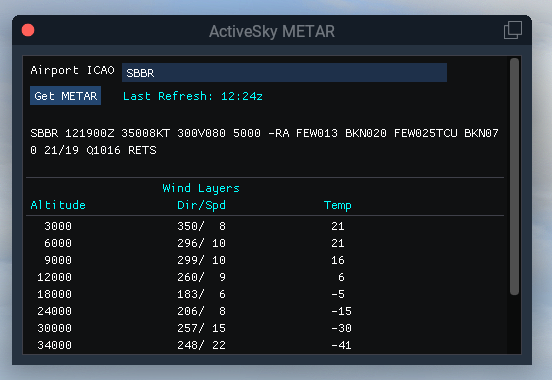
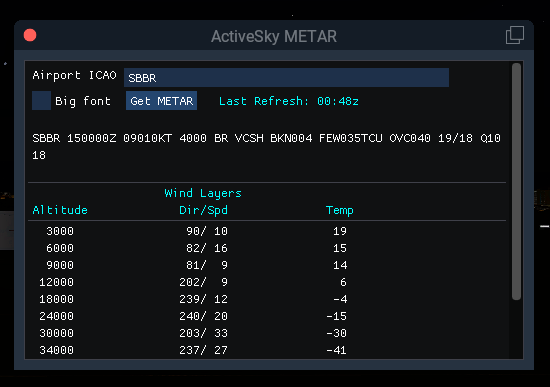
Big Font Option

Changed region(s): [[0.0, 0.0, 1.0, 1.0], [0.5873, 0.8105, 0.6491, 0.8684], [0.5873, 0.7237, 0.6491, 0.7816]]

diff --git a/README.md b/README.md
@@ -1,7 +1,7 @@
 # ActiveSkyXP-Helper
 A plugin for X-Plane 11 that retrieves METAR's from ActiveSky.
 
-![ActiveSkyXP-Helper](https://user-images.githubusercontent.com/49170559/141523047-2dad5382-0a45-4cce-80d2-227852b76754.PNG)
+![ActiveSkyXP-Helper](https://user-images.githubusercontent.com/49170559/141706953-9055ef82-54b0-49d7-9bb0-f6c58263ab31.PNG)
 
 This plugin requests the METAR information from a running ActiveSky instance through it's HTTP port, note that ActiveSky should use it's default HTTP port (19285).
 The command "FlyWithLua/ActiveSkyMetar/show_toggle" is available to support a keyboard/button shortcut.
@@ -16,6 +16,8 @@ The ActiveSky network port should be set to the default value (19285):
 - dechilders 
 
 # Change History:
+V0.8
+- Add a checkbox to use bigger font
 
 V 0.7
 - Fix negative temparatures alignment in Wind Layers
